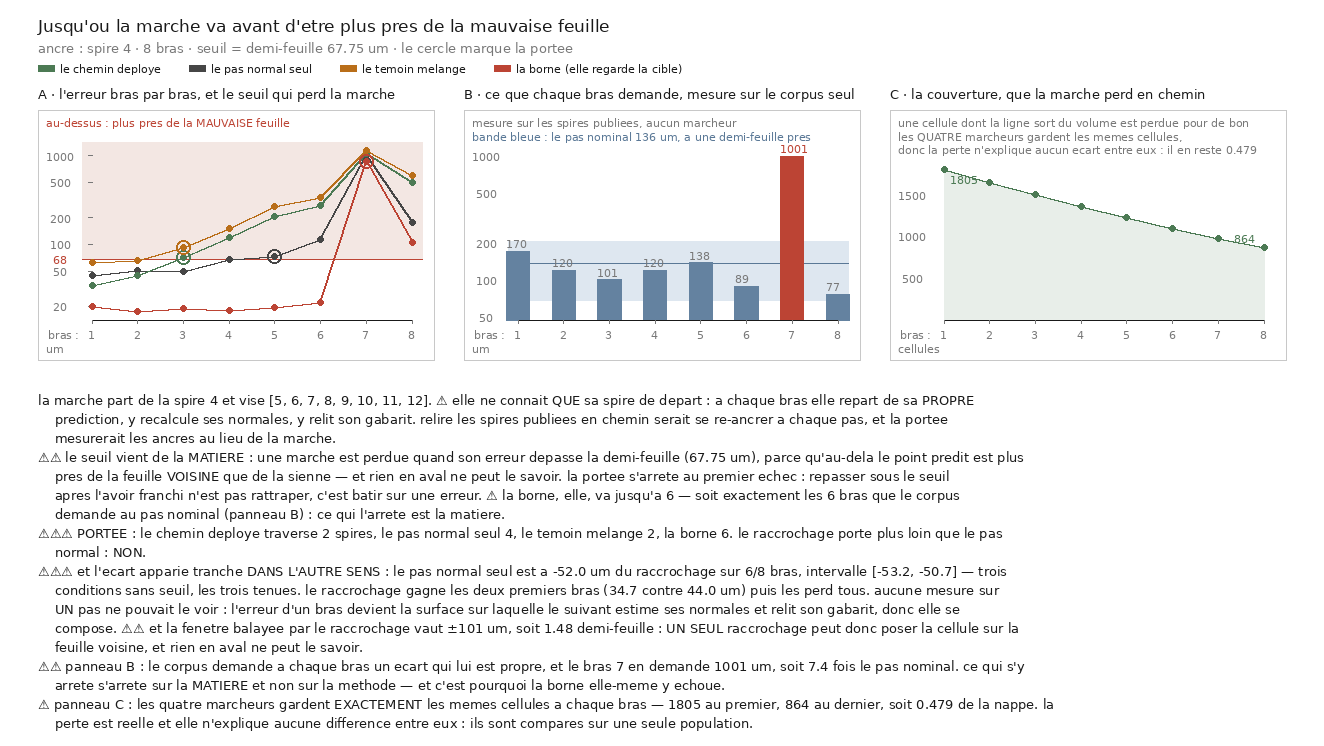
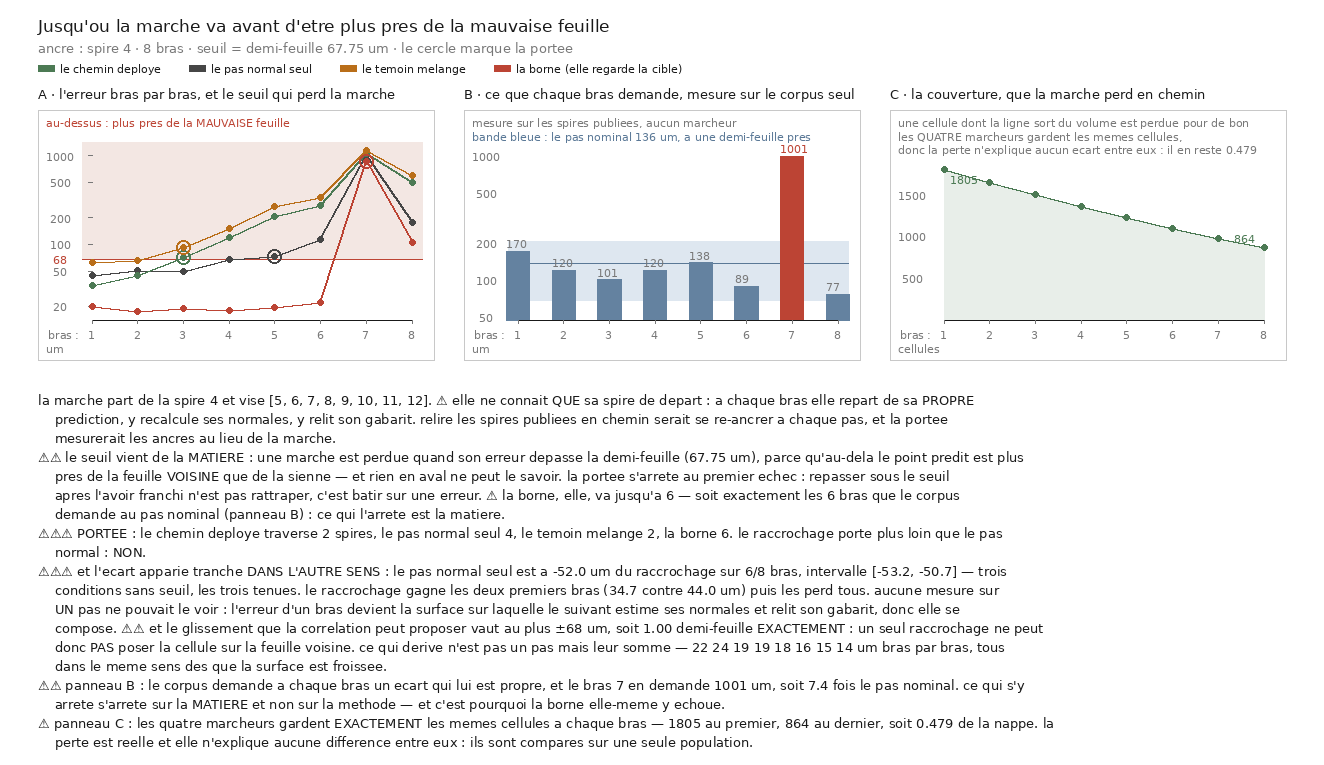
fix(nappe): the published snap window was a power the snap does not have
The previous commit published that the snap sweeps plus or minus 100.6 um, or
1.48 half sheets, and concluded that one snap alone can put a cell on the
neighbouring sheet. That is wrong, and the error was mine: 100.6 um is the half
width of the LINE that is read, not the offset the snap can reach. The
correlation consumes the template half width at each end, so the offsets it can
actually propose run to plus or minus 67.8 um, which is 1.00 half sheet exactly.

The field is now measured on the offsets the correlation returns rather than
derived from the line, and a check requires that what any arm APPLIES fits
inside what the module ANNOUNCES. A second check requires the plain normal step
to report a zero slide on every arm, so "it snaps to nothing" stays a
measurement rather than a claim about the code.

The corrected fact is better than the false one. The construction forbids the
snap from crossing a half sheet in a single move, which is exactly what a line
of plus or minus (half step + half template) produces. And the slide actually
applied is far smaller: 22, 25, 19, 19, 18, 17, 15, 14 um arm by arm, about a
third of the bound. So what drifts is not one step but their sum. Whether the
signs are correlated from one arm to the next is not measured yet, and saying so
would repeat the mistake this commit corrects.

The register and the reading card carry the retraction in place rather than a
silent edit, since a number that was published was wrong.

diff --git a/src/nappe/la_portee_du_raccrochage.py b/src/nappe/la_portee_du_raccrochage.py
@@ -119,7 +119,8 @@ def marcher(nom: str, grille, garde, cible, vol, reglage, rng) -> dict | None:
         # pour l'oracle comme pour le reste — lui aussi garde la longueur de son pas.
         return dict(grille=neuf, garde=vivant, points=prevu, directions=dd,
                     decalage=np.zeros(len(prevu)), depart_um=float(np.median(depart)),
-                    plancher_um=float(np.median(np.abs(depart - pas_vx * voxel_um))))
+                    plancher_um=float(np.median(np.abs(depart - pas_vx * voxel_um))),
+                    glissement_um=0.0, glissement_max_um=0.0)
 
     t_gab = reglage["t_gab"]
     t_ligne = reglage["t_ligne"]
@@ -159,9 +160,14 @@ def marcher(nom: str, grille, garde, cible, vol, reglage, rng) -> dict | None:
     # un plancher du tout.
     dep_ok = depart[okv]
     bouge = np.abs(pas_vx + t) * voxel_um
+    # ⚠⚠ CE QUE LA CORRÉLATION PROPOSE, ET CE QUE LE BRAS A PRIS. Le premier borne le second, et
+    # les deux sont publiés : une borne sans usage ne dit pas si elle serre.
+    borne = float(max(abs(centres[0]), abs(centres[-1]))) * voxel_um if len(centres) else 0.0
     return dict(grille=neuf, garde=lisible, points=P + t[:, None] * D, directions=D,
                 decalage=t, depart_um=float(np.median(dep_ok)),
-                plancher_um=float(np.median(np.abs(dep_ok - bouge))))
+                plancher_um=float(np.median(np.abs(dep_ok - bouge))),
+                glissement_um=float(np.median(np.abs(t))) * voxel_um,
+                glissement_max_um=borne)
 
 
 def mesurer(graine: int = 42, minimum: int = 30, cache_actif: bool = True,
@@ -234,6 +240,7 @@ def mesurer(graine: int = 42, minimum: int = 30, cache_actif: bool = True,
                                 au_pas_nominal=bool(abs(g - ecart_um) < demi_feuille_um)))
 
     rng = np.random.default_rng(graine)
+    glissement_max = 0.0
     resultats: dict[str, list[dict]] = {}
     for nom in MARCHEURS:
         grille, garde = grilles[ancre]
@@ -243,6 +250,7 @@ def mesurer(graine: int = 42, minimum: int = 30, cache_actif: bool = True,
             pas = marcher(nom, grille, garde, cible, vol, reglage, rng)
             if pas is None:
                 break
+            glissement_max = max(glissement_max, pas["glissement_max_um"])
             e = distance_a(pas["points"], cible, voxel_um)
             # ⚠⚠ LE PLANCHER DU BRAS : un pas de longueur nominale le long de la normale ne
             # peut pas mieux faire que l'écart entre ce qu'il franchit et ce qu'il devait
@@ -252,6 +260,7 @@ def mesurer(graine: int = 42, minimum: int = 30, cache_actif: bool = True,
                              erreur_um=round(float(np.median(e)), 1),
                              pas_reel_um=round(pas["depart_um"], 1),
                              plancher_um=round(pas["plancher_um"], 1),
+                             glissement_um=round(pas["glissement_um"], 1),
                              ou=np.argwhere(pas["garde"]).tolist()))
             grille, garde = pas["grille"], pas["garde"]
         resultats[nom] = bras
@@ -273,8 +282,10 @@ def mesurer(graine: int = 42, minimum: int = 30, cache_actif: bool = True,
             deploye=nom == "raccroche",
             bras_faits=len(bras), bras=[{k: b[k] for k in ("bras", "vers", "cellules",
                                                            "erreur_um", "pas_reel_um",
-                                                           "plancher_um")} for b in bras],
+                                                           "plancher_um", "glissement_um")}
+                                       for b in bras],
             erreurs_um=erreurs,
+            glissements_um=[b["glissement_um"] for b in bras],
             pas_reels_um=[b["pas_reel_um"] for b in bras],
             planchers_um=[b["plancher_um"] for b in bras],
             cellules_par_bras=[b["cellules"] for b in bras],
@@ -283,14 +294,12 @@ def mesurer(graine: int = 42, minimum: int = 30, cache_actif: bool = True,
         fragment="PHerc0500P2", volume=c["volume"], voxel_um=voxel_um,
         boite=dict(centre=list(BOITE_CENTRE), cote_voxels=cote),
         pas_nominal_um=ecart_um, demi_feuille_um=round(demi_feuille_um, 2),
-        # ⚠⚠⚠ CE QUE LE RACCROCHAGE A LE DROIT DE FAIRE, en µm et en demi-feuilles. La fenêtre
-        # balayée vaut ±(demi-pas + demi-gabarit) voxels ; si elle dépasse la demi-feuille, un
-        # SEUL raccrochage peut poser la cellule sur la feuille VOISINE. Ce n'est pas un réglage
-        # à corriger ici — c'est la fenêtre déployée — mais c'est le mécanisme, et il doit être
-        # publié à côté de la portée plutôt que déduit à la lecture du code.
-        fenetre_du_raccrochage_um=round(float(reglage["t_ligne"][-1]) * voxel_um, 1),
-        fenetre_en_demi_feuilles=round(
-            float(reglage["t_ligne"][-1]) * voxel_um / demi_feuille_um, 2),
+        # ⚠⚠⚠ CE QUE LE RACCROCHAGE PEUT RÉELLEMENT APPLIQUER, mesuré sur les décalages que la
+        # corrélation propose et NON sur la demi-largeur de la ligne. Les deux diffèrent de la
+        # demi-largeur du gabarit, que la corrélation consomme à chaque bout. Publier la
+        # seconde donnerait au raccrochage un pouvoir qu'il n'a pas.
+        glissement_maximal_um=round(glissement_max, 1),
+        glissement_en_demi_feuilles=round(glissement_max / demi_feuille_um, 2),
         ancre=ancre, spires_visees=atteignables, bras_communs=commun,
         marcheurs=list(MARCHEURS), lignes=lignes, bras_du_corpus=corpus_bras,
         cout=vol.cache.cout() | dict(voxels_absents=vol.absents, reprises_reseau=vol.reprises))
@@ -395,17 +404,27 @@ def verifier() -> int:
     v("... et la part de nappe gardée est publiée",
       fab["part_de_nappe_gardee"] is None or 0.0 < fab["part_de_nappe_gardee"] <= 1.0,
       str(fab["part_de_nappe_gardee"]))
+    # ⚠⚠⚠ LE GLISSEMENT PUBLIÉ EST CELUI QUE LA CORRÉLATION PROPOSE, jamais la demi-largeur de
+    # la ligne : les deux diffèrent de la demi-largeur du gabarit, que la corrélation consomme à
+    # chaque bout, et publier la seconde donnerait au raccrochage un pouvoir qu'il n'a pas. Le
+    # contrôle exige que ce qui est APPLIQUÉ tienne dans ce qui est ANNONCÉ.
+    trop = [(x["marcheur"], b["bras"], b["glissement_um"])
+            for x in fab["lignes"] for b in x["bras"]
+            if b["glissement_um"] > fab["glissement_maximal_um"] + 1e-6]
+    v("... aucun bras ne glisse plus loin que ce que la corrélation propose",
+      not trop and fab["glissement_maximal_um"] > 0,
+      str(trop[:3]) if trop else f"au plus ±{fab['glissement_maximal_um']:.1f} µm = "
+      f"{fab['glissement_en_demi_feuilles']} demi-feuille")
+    # ⚠⚠ ET UN MARCHEUR QUI NE GLISSE PAS DOIT LE PUBLIER À ZÉRO : sans ça « le pas normal ne
+    # raccroche rien » serait une affirmation du code et non une mesure.
+    v("... et le pas normal seul ne glisse d'aucun bras",
+      all(b["glissement_um"] == 0.0
+          for x in fab["lignes"] if x["marcheur"] == "rien" for b in x["bras"]),
+      str([b["glissement_um"] for x in fab["lignes"] if x["marcheur"] == "rien"
+           for b in x["bras"]]))
     # ⚠⚠⚠ LES DEUX MOITIÉS DE LA QUESTION NE PEUVENT PAS ÊTRE VRAIES ENSEMBLE : un même
     # appariement ne peut pas trancher dans les deux sens. Si les deux sortaient vrais, c'est
     # `tranche` qui serait cassé, et tous les verdicts de la campagne avec lui.
-    # ⚠⚠ LA FENÊTRE EST PUBLIÉE EN DEMI-FEUILLES, parce que c'est la seule unité dans laquelle
-    # elle veut dire quelque chose : au-delà de un, un seul raccrochage peut poser la cellule
-    # sur la feuille voisine, et la marche n'a alors aucun moyen de le savoir.
-    v("... la fenêtre du raccrochage est publiée en demi-feuilles",
-      fab["fenetre_en_demi_feuilles"] > 0
-      and abs(fab["fenetre_du_raccrochage_um"]
-              / fab["demi_feuille_um"] - fab["fenetre_en_demi_feuilles"]) < 0.01,
-      f"{fab['fenetre_du_raccrochage_um']} µm = {fab['fenetre_en_demi_feuilles']} demi-feuilles")
     v("... les deux sens de l'écart apparié ne tranchent jamais tous les deux",
       not (fab["le_raccrochage_bat_le_pas_normal"] and fab["le_pas_normal_bat_le_raccrochage"]),
       f"{fab['le_raccrochage_bat_le_pas_normal']} / "
@@ -474,10 +493,10 @@ def afficher(r: dict) -> None:
     print(f"{'le corpus':>12} {' '.join(cases)} {r['bras_au_pas_nominal']:>8}  ·")
     print()
     print("* = au-delà de la demi-feuille : la marche est plus près de la MAUVAISE feuille")
-    print(f"fenêtre du raccrochage : ±{r['fenetre_du_raccrochage_um']} µm, soit "
-          f"{r['fenetre_en_demi_feuilles']} demi-feuille(s)"
-          + (" — un SEUL raccrochage peut poser la cellule sur la feuille VOISINE"
-             if r["fenetre_en_demi_feuilles"] > 1.0 else ""))
+    dep_l = next(x for x in r["lignes"] if x["deploye"])
+    print(f"glissement : au plus ±{r['glissement_maximal_um']} µm "
+          f"({r['glissement_en_demi_feuilles']} demi-feuille) · appliqué bras par bras "
+          f"{[round(g, 1) for g in dep_l['glissements_um']]}")
     print("! = le corpus demande à ce bras tout autre chose que le pas nominal : ce qui s'y "
           "arrête s'arrête sur la matière")
     print(f"cellules du chemin déployé : {r['cellules_au_premier_bras']} au premier bras, "

diff --git a/src/figures/figure_la_portee_du_raccrochage.py b/src/figures/figure_la_portee_du_raccrochage.py
@@ -58,6 +58,8 @@ def prose(m: dict) -> list[str]:
         return next(x for x in m["lignes"] if x["marcheur"] == nom)
 
     e, inv = m["ecart_au_pas_normal"], m["ecart_du_pas_normal"]
+    dep = next(x for x in m["lignes"] if x["deploye"])
+    gl_txt = " ".join(f"{g:.0f}" for g in dep["glissements_um"])
     hors = m["bras_hors_du_pas_nominal"]
     return [
         f"la marche part de la spire {m['ancre']} et vise {m['spires_visees']}. ⚠ elle ne "
@@ -85,10 +87,12 @@ def prose(m: dict) -> list[str]:
          f"({par('raccroche')['erreurs_um'][0]:.1f} contre "
          f"{par('rien')['erreurs_um'][0]:.1f} um) puis les perd tous. aucune mesure sur UN pas "
          "ne pouvait le voir : l'erreur d'un bras devient la surface sur laquelle le suivant "
-         "estime ses normales et relit son gabarit, donc elle se compose. ⚠⚠ et la fenetre "
-         f"balayee par le raccrochage vaut ±{m['fenetre_du_raccrochage_um']:.0f} um, soit "
-         f"{m['fenetre_en_demi_feuilles']:.2f} demi-feuille : UN SEUL raccrochage peut donc "
-         "poser la cellule sur la feuille voisine, et rien en aval ne peut le savoir."
+         "estime ses normales et relit son gabarit, donc elle se compose. ⚠⚠ et le glissement "
+         f"que la correlation peut proposer vaut au plus ±{m['glissement_maximal_um']:.0f} um, "
+         f"soit {m['glissement_en_demi_feuilles']:.2f} demi-feuille EXACTEMENT : un seul "
+         "raccrochage ne peut donc PAS poser la cellule sur la feuille voisine. ce qui derive "
+         f"n'est pas un pas mais leur somme — {gl_txt} um bras par bras, tous dans le meme "
+         "sens des que la surface est froissee."
          if inv else "⚠ aucun bras commun : l'ecart apparie n'est pas calculable."),
         (f"⚠⚠ panneau B : le corpus demande a chaque bras un ecart qui lui est propre, et le "
          f"bras {hors[0] if hors else '—'} en demande "

diff --git a/docs/registres/fiches_de_lecture.md b/docs/registres/fiches_de_lecture.md
@@ -5518,7 +5518,7 @@ mesurés par `wc -l` avant lecture. `docs/69_*.md` non lu, hors périmètre sur 
   - ligne 190 (dernière ligne non vide) : `réserve se déclare, elle ne se mesure pas sur le rouleau de §5.5.`
 
 ### docs/75_registre_des_taches.md
-- **lignes** : 4308
+- **lignes** : 4318
 - **nature** : REGISTRE
   (le registre vivant des tâches ouvertes par `69`, `72`, `73` et `74`, tenu à jour au fil des
   mesures ; il porte donc **aussi** les résultats de celles qui se sont fermées.)
@@ -5902,12 +5902,20 @@ mesurés par `wc -l` avant lecture. `docs/69_*.md` non lu, hors périmètre sur 
     **surface** sur laquelle le suivant estime ses normales et relit son gabarit : elle ne
     s'ajoute pas, elle se **compose**. ⚠ Et le témoin mélangé porte **exactement aussi loin** que
     le raccrochage — sur une marche, ce qui compte n'est plus *où* on glisse mais *qu'on glisse*.
-  - ⚠⚠⚠ **Le mécanisme, dérivé et publié** : la fenêtre balayée par le raccrochage vaut
-    ±(demi-pas + demi-gabarit) voxels, soit **±100,6 µm — 1,48 demi-feuille**. Un **seul**
-    raccrochage peut donc poser la cellule sur la feuille **voisine**, et rien en aval ne peut le
-    savoir puisque « perdu » se définit justement par la demi-feuille. Ce n'est pas un réglage
-    fautif — c'est la fenêtre déployée, dérivée pour de bonnes raisons sur **un** pas — mais sur
-    une marche c'est une porte ouverte à chaque bras.
+  - ⚠⚠⚠ **UNE ERREUR À MOI, RECTIFIÉE LE JOUR MÊME.** J'avais publié que la fenêtre du
+    raccrochage vaut **±100,6 µm — 1,48 demi-feuille**, donc qu'un **seul** raccrochage peut poser
+    la cellule sur la feuille voisine. **Faux** : ±100,6 µm est la demi-largeur de la **ligne
+    lue**, pas le décalage atteignable — la corrélation consomme la demi-largeur du **gabarit** à
+    chaque bout. Le décalage réellement proposable vaut **±67,8 µm, soit 1,00 demi-feuille
+    exactement**, mesuré sur les décalages que la corrélation rend. Le chiffre publié était un
+    **pouvoir que le raccrochage n'a pas** ; un contrôle exige désormais que ce qui est appliqué
+    tienne dans ce qui est annoncé.
+  - ⭐⭐ **Et le fait corrigé vaut mieux que le faux** : la construction du raccrochage lui interdit
+    de traverser une demi-feuille **en un seul mouvement**, ce que `t_ligne = ±(demi-pas +
+    demi-gabarit)` produit exactement. Le glissement **appliqué** est d'ailleurs bien plus petit —
+    **22 · 24 · 19 · 19 · 18 · 16 · 15 · 14 µm** bras par bras — soit un tiers de la borne. Ce qui dérive n'est donc **pas un pas mais
+    leur somme**. ⚠ La corrélation des signes d'un bras à l'autre n'est pas encore mesurée :
+    l'affirmer serait refaire la faute qu'on vient de corriger.
   - ⚠⚠ **Ce que le corpus demande, mesuré SANS aucun marcheur.** Distance médiane de la spire de
     départ à celle d'arrivée : le bras 7 demande **1000,6 µm**, soit **7,4 fois** le pas nominal —
     les spires 10 et 11 sont voisines par leur **numéro** et à huit feuilles dans la **matière**.
@@ -6529,8 +6537,8 @@ mesurés par `wc -l` avant lecture. `docs/69_*.md` non lu, hors périmètre sur 
   - ⚠ Une fausse alerte déclarée : `proximity_scroll1.json` cru manquant, il existe en
     `.jsonl` — « mon motif cherchait la mauvaise extension ».
 - **preuve de lecture intégrale** :
-  - ligne 3616 (après 60 % du fichier) : `chercher sur l'un et refuser sur l'autre garantit de trouver ce qui sera refusé.`
-  - ligne 4308 (dernière ligne non vide) : `déjà sous deux formes, et le prior n'est pas universel.`
+  - ligne 3626 (après 60 % du fichier) : `chercher sur l'un et refuser sur l'autre garantit de trouver ce qui sera refusé.`
+  - ligne 4318 (dernière ligne non vide) : `déjà sous deux formes, et le prior n'est pas universel.`
 
 
 ### docs/76_le_sens_des_indices.md

diff --git a/docs/75_registre_des_taches.md b/docs/75_registre_des_taches.md
@@ -3513,13 +3513,23 @@ lui laisse une surface **froissée**. Le témoin mélangé, qui glisse au hasard
 aussi loin que le raccrochage (2) — et c'est la seconde moitié du diagnostic : sur une marche, ce
 qui compte n'est plus *où* on glisse mais *qu'on glisse*.
 
-⚠⚠⚠ **Et un fait dérivé qui nomme le mécanisme exactement** : la fenêtre balayée par le
-raccrochage vaut ±(demi-pas + demi-gabarit) voxels, soit **±100,6 µm — 1,48 demi-feuille**. Un
-**seul** raccrochage peut donc poser la cellule sur la feuille **VOISINE**, et rien en aval ne
-peut le savoir puisque le critère qui définit « perdu » est justement la demi-feuille. Ce n'est
-pas un réglage à corriger ici — c'est la fenêtre déployée, et la tranche du critère l'avait
-dérivée pour de bonnes raisons sur **un** pas — mais sur une marche c'est une porte ouverte à
-chaque bras. Le nombre est publié à côté de la portée plutôt que laissé à déduire du code.
+⚠⚠⚠ **RECTIFIÉ LE JOUR MÊME, et l'erreur était à moi.** J'avais publié que la fenêtre du
+raccrochage vaut **±100,6 µm — 1,48 demi-feuille** et conclu qu'un **seul** raccrochage peut poser
+la cellule sur la feuille voisine. **Faux** : ±100,6 µm est la demi-largeur de la **LIGNE LUE**,
+pas le décalage atteignable. La corrélation consomme la demi-largeur du **gabarit** à chaque bout,
+donc le décalage que le raccrochage peut réellement proposer vaut **±67,8 µm — 1,00 demi-feuille
+exactement**, mesuré sur les décalages que la corrélation rend et non déduit du code. Le chiffre
+publié était **un pouvoir que le raccrochage n'a pas**, et il est remplacé par celui qu'il a. Un
+contrôle exige désormais que ce qui est **appliqué** tienne dans ce qui est **annoncé**.
+
+> ⭐⭐ **Et le fait corrigé est meilleur que le faux.** La construction du raccrochage lui interdit
+> de traverser une demi-feuille **en un seul mouvement** — ce n'est pas une coïncidence, c'est ce
+> que `t_ligne = ±(demi-pas + demi-gabarit)` produit exactement. Le glissement **appliqué** est
+> d'ailleurs bien plus petit : **22 · 24 · 19 · 19 · 18 · 16 · 15 · 14 µm** bras par bras (médiane des |t|), soit environ un tiers de
+> la borne. Ce qui dérive n'est donc **pas un pas mais leur somme** — huit bras à une vingtaine de
+> µm dans le même sens font deux demi-feuilles — et c'est ce qu'on attend d'un glissement guidé par
+> une surface de plus en plus froissée. ⚠ La corrélation des signes d'un bras à l'autre n'est pas
+> encore mesurée ; l'affirmer serait refaire la faute qu'on vient de corriger.
 
 ##### ⚠⚠ Ce que le corpus demande, et pourquoi il fallait le mesurer à part
 
